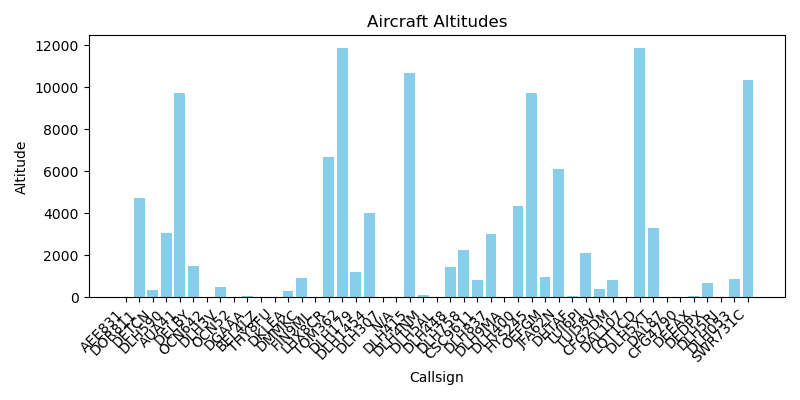
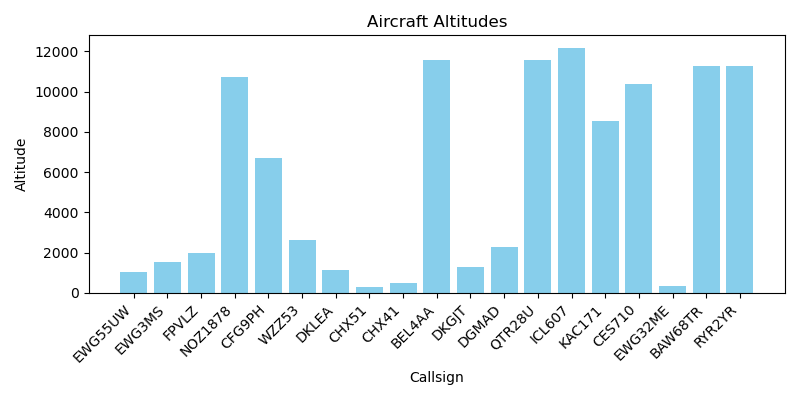
modifications

diff --git a/aircraft_explorer/app.py b/aircraft_explorer/app.py
@@ -86,4 +86,4 @@ def compare():
     
     return "Please perform a search first, then use comparison. <a href='/'>Go to search</a>"
 if __name__ == '__main__':
-    app.run(debug=True, port=5000)
+    app.run(debug=True, port=5001)